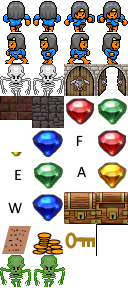
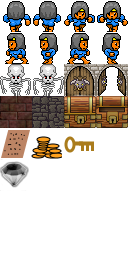
Added in spell animation and adjusted some sprite textures.

diff --git a/Kestala/animation_manager.cpp b/Kestala/animation_manager.cpp
@@ -19,6 +19,19 @@ void AnimationManager::update(sf::Sprite& sprite, sf::Vector2f spriteOrigin) {
 		}		
 	return;
 }
+void AnimationManager::update(sf::Sprite& sprite, sf::Vector2f spriteOrigin, int times) {
+	if (times < 3) {
+		sf::IntRect newRect = sprite.getTextureRect();
+		newRect.left += 32;
+		sprite.setTextureRect(newRect);
+	}
+	else if (times >= 4 && times < 8) {
+		sf::IntRect newRect = sprite.getTextureRect();
+		newRect.left -= 32;
+		sprite.setTextureRect(newRect);
+	}
+	return;
+}
 
 //called if player changes direction - update sprite
 void AnimationManager::changeDirection(sf::Keyboard::Key& direction, sf::Sprite& sprite, sf::Vector2f& spriteOrigin) {
@@ -64,21 +77,6 @@ AnimationManager::AnimationManager() {
 	this->startingFrames["key"] = sf::IntRect(64,128, 32, 32);
 	this->startingFrames["altar"] = sf::IntRect(96,128, 32, 32);
 	this->startingFrames["gem"] = sf::IntRect(0,160, 32, 32);
-	
-
-
-	/*this->startingFrames["firegem"] = sf::IntRect(64, 96, 32, 32);
-	this->startingFrames["earthgem"] = sf::IntRect(96, 96, 32, 32);
-	this->startingFrames["airgem"] = sf::IntRect(0, 128, 32, 32);
-	this->startingFrames["watergem"] = sf::IntRect(32, 128, 32, 32);
-	this->startingFrames["firealtar"] = sf::IntRect(64, 128, 32, 32);
-	this->startingFrames["earthaltar"] = sf::IntRect(0, 160, 32, 32);
-	this->startingFrames["airaltar"] = sf::IntRect(64, 160, 32, 32);
-	this->startingFrames["wateraltar"] = sf::IntRect(0, 192, 32, 32);
-	this->startingFrames["hiddentreasure"] = sf::IntRect(64, 192, 32, 32);
-	this->startingFrames["treasure"] = sf::IntRect(96, 192, 32, 32);
-	this->startingFrames["clue"] = sf::IntRect(0, 224, 32, 32);
-	this->startingFrames["minortreasure"] = sf::IntRect(32, 224, 32, 32);
-	this->startingFrames["key"] = sf::IntRect(64, 224, 32, 32);*/
-
+	this->startingFrames["exit"] = sf::IntRect(32, 160, 32, 32);
+	this->startingFrames["spell"] = sf::IntRect(0, 192, 32, 32);
 }

diff --git a/Kestala/game.cpp b/Kestala/game.cpp
@@ -21,7 +21,7 @@ void Game::loadTiles() {
 	sf::Texture& spriteSheet(texmgr.getRef("spritesheet"));
 	this->tileAtlas["floor"] = Tile(this->tileHeight, spriteSheet, animgr.firstFrame("floor"), false, Entity::entityType::FLOOR, 'F');
 	this->tileAtlas["wall"] = Tile(this->tileHeight, spriteSheet, animgr.firstFrame("wall"), true, Entity::entityType::WALL, 'W');
-	this->tileAtlas["exit"] = Tile(this->tileHeight, spriteSheet, animgr.firstFrame("opendoor"), false, Entity::entityType::EXIT, 'E');
+	this->tileAtlas["exit"] = Tile(this->tileHeight, spriteSheet, animgr.firstFrame("exit"), false, Entity::entityType::EXIT, 'E');
 	this->tileAtlas["openDoor"] = Tile(this->tileHeight, spriteSheet, animgr.firstFrame("opendoor"), false, Entity::entityType::DOOR, 'O');
 	this->tileAtlas["blockedDoor"] = Tile(this->tileHeight, spriteSheet, animgr.firstFrame("blockeddoor"), true, Entity::entityType::DOOR, 'B');
 	this->tileAtlas["start"] = Tile(this->tileHeight, spriteSheet, animgr.firstFrame("opendoor"),  false, Entity::entityType::START, 'S');
@@ -38,7 +38,8 @@ void Game::loadTiles() {
 	this->tileAtlas["clue"] = Tile(this->tileHeight, spriteSheet, animgr.firstFrame("clue"), false, Entity::entityType::PICKUP, 'C');
 	this->tileAtlas["minorTreasure"] = Tile(this->tileHeight, spriteSheet, animgr.firstFrame("minortreasure"), false, Entity::entityType::PICKUP, 'M');
 	this->tileAtlas["key"] = Tile(this->tileHeight, spriteSheet, animgr.firstFrame("key"), false, Entity::entityType::PICKUP, 'K');
-	
+	this->tileAtlas["spell"] = Tile(this->tileHeight, spriteSheet, animgr.firstFrame("spell"), false, Entity::entityType::INTERACTIVE, 'S');
+
 
 }
 

diff --git a/Kestala/game_level_state.cpp b/Kestala/game_level_state.cpp
@@ -18,7 +18,7 @@ void GameLevel::draw(const float dt) {
 	this->game->window.draw(this->game->background);
 	gui.draw(this->game->window);
 	if (start) {
-		map.draw(this->game->window);
+		map.draw(this->game->window, this->player, this->game, dt);
 		player.draw(this->game->window);
 	}
 	return;
@@ -38,6 +38,7 @@ void GameLevel::update(sf::Clock& clock) {
 		if (this->map.nextLevel) {
 			this->map.prevVisited = true;
 			if (prevLevels.size() >= this->map.id) {
+				
 				prevLevels[currentLevel - 1] = this->map;
 			}
 			else {
@@ -85,16 +86,19 @@ void GameLevel::update(sf::Clock& clock) {
 
 		}
 
-		/*Enemy movement*/
-		float dt = clock.getElapsedTime().asSeconds();
-		if (dt > this->game->gameSpeed) {
-			this->map.enemyMove(player, this->game);
+		/*Update enemies*/
+		float dt = clock.getElapsedTime().asSeconds();	
+		if (dt > this->game->gameSpeed) {	
+			this->map.enemyMove(player, this->game);			
 			if (this->player.beenHit) {
 				this->game->audmgr.addBufferToQueue("playerhit");
 			}
 			gameOver = player.isDead();
 			this->player.beenHit = false;
 		}
+			
+				
+
 		this->gui.update("health", "Health: " + this->player.getHealth());
 		this->gui.update("spells", "Spells: " + this->player.getSpells());
 		this->gui.update("gem", "Gems Gathered: " + this->player.getGems());
@@ -149,7 +153,7 @@ void GameLevel::eventHandler() {
 			}
 			if (event.key.code == sf::Keyboard::Return) {
 				if (this->player.spells > 0) {
-					this->map.spell(this->player);
+					this->map.spell(this->player, this->game);
 					this->game->audmgr.addBufferToQueue("explode");
 				}
 			}

diff --git a/Kestala/map.cpp b/Kestala/map.cpp
@@ -36,6 +36,7 @@ void Map::loadMap(const std::string& filename, int id, unsigned int width, unsig
 
 		case 'L':
 			//locked passage
+			cell.cellContents.push_back(entityAtlas.at("floor"));
 			cell.cellContents.push_back(entityAtlas.at("blockedDoor"));
 			break;
 		case 'k':
@@ -493,8 +494,11 @@ void Map::restartMap(Player& player) {
 	nextLevel = false;
 }
 
-void Map::spell(Player& player) {
+void Map::spell(Player& player, Game* game) {
 	player.spells--;
+	spellTicks = 0;
+	spellCast = true;
+	player.setSpell(game->texmgr.getRef("spritesheet"), game->animgr.firstFrame("spell"));
 	std::vector<sf::Vector2f> nearby = nearPlayer(player);
 	for (auto& enemy : enemies) {
 		for (auto& near : nearby) {
@@ -646,7 +650,23 @@ std::string Map::clueText() {
 	return clue;
 }
 
-void Map::draw(sf::RenderWindow& window) {
+void Map::updateSpell(Player& player, Game* game) {
+	if (spellTicks >= 8) {
+			spellCast = false;
+			spellTicks = 0;
+			player.setSpell(game->texmgr.getRef("spritesheet"), game->animgr.firstFrame("spell"));
+		}
+		else if (spellCast) {
+			game->animgr.update(player.spell, player.spellOrigin, spellTicks);
+			spellTicks++;
+		}
+}
+
+
+void Map::draw(sf::RenderWindow& window, Player &player, Game* game, const float dt) {
+	if (dt > 0.25) {
+		updateSpell(player, game);
+	}
 	for (auto &cell : this->mapCells) {
 		for (auto &content : cell.cellContents) {
 			if (content.active) {

diff --git a/Kestala/map.hpp b/Kestala/map.hpp
@@ -30,6 +30,7 @@ public:
 	int gems;
 	int totalGems;
 	int id;
+	int spellTicks;
 
 	
 	bool firstLevel = false;
@@ -38,6 +39,8 @@ public:
 	bool prevVisited = false;
 	bool unlocked = false;
 	bool clueFound = false;
+	bool spellCast = false;
+
 
 
 	sf::Vector2f exitPos;
@@ -61,7 +64,8 @@ public:
 	//entity interactions
 	bool playerCollision(sf::Vector2f position, Player& player);
 	bool enemyCollision(sf::Vector2f position,Enemy& enemy, Player& player);
-	void spell(Player& player);
+	void spell(Player& player, Game* game);
+	void updateSpell(Player& player, Game* game);
 	bool interact(Player& player);
 	std::vector<sf::Vector2f> nearPlayer(Player& player);
 	void unlockTreasure();
@@ -72,8 +76,7 @@ public:
 	void returnMap(Player& player);
 	void restartMap(Player& player);
 
-
-	void draw(sf::RenderWindow& window);
+	void draw(sf::RenderWindow& window, Player &player, Game* game, const float dt);
 
 	Map() {		
 		this->width = 0;
@@ -97,7 +100,7 @@ public:
 	}
 
 	Map(const std::string& filename, int id, unsigned int width, unsigned int height, unsigned int tileSize,
-		std::map<std::string, Tile>& tileAtlas, Game* game, Player& player, bool first) {
+		std::map<std::string, Tile>& tileAtlas, Game* game, Player& player, bool first)  {
 		this->width = width;
 		this->height = height;
 		this->tileSize = tileSize;

diff --git a/Kestala/player.cpp b/Kestala/player.cpp
@@ -26,6 +26,7 @@ sf::Vector2f Player::movePosition(sf::Keyboard::Key& dirKey) {
 
 void Player::setPosition(sf::Vector2f position) {
 	this->sprite.setPosition(position);
+	this->spell.setPosition(this->sprite.getPosition());
 	return;
 }
 
@@ -59,6 +60,17 @@ std::string Player::getKeys() {
 	std::string keyNum = std::to_string(this->key);
 	return keyNum;
 }
+
+void Player::setSpell(sf::Texture& texture, sf::IntRect texturePosition) {
+	this->spell.setOrigin(sf::Vector2f(0.0f, 0.0f));
+	this->spell.setPosition(this->sprite.getPosition());
+	this->spell.setTexture(texture);
+	this->spell.setTextureRect(texturePosition);
+	this->spellOrigin.x = texturePosition.left;
+	this->spellOrigin.y = texturePosition.top;
+}
+
+
 
 bool Player::isDead() {
 	if (this->health <= 0) {

diff --git a/Kestala/entity.hpp b/Kestala/entity.hpp
@@ -11,6 +11,7 @@ class Entity {
 public:
 	sf::IntRect rectSource;
 	sf::Sprite sprite;
+	sf::Sprite spell;
 	bool active = true;
 	int tileSize = 32;
 	char id;
@@ -21,13 +22,16 @@ public:
 
 	virtual void draw(sf::RenderWindow& window) {
 		window.draw(this->sprite);
+		window.draw(this->spell);
 	}
 	virtual void updatePos(sf::Vector2f& position) {
 		this->sprite.setPosition(position);
+		this->spell.setPosition(this->sprite.getPosition());
 		return;
 	}
 	virtual sf::Vector2f getPosition() {
 		return this->sprite.getPosition();
+		this->spell.setPosition(this->sprite.getPosition());
 	}
 	virtual void takeDamage() {};
 

diff --git a/Kestala/player.hpp b/Kestala/player.hpp
@@ -8,6 +8,8 @@
 
 class Player : public Entity {
 public:
+	//spell sprite
+	sf::Vector2f spellOrigin;
 
 	//player movement
 	float moveSpeed = 0.125;
@@ -28,6 +30,7 @@ public:
 	std::string getKeys();
 	void takeDamage();
 	bool isDead();
+	void setSpell(sf::Texture& texture, sf::IntRect texturePosition);
 	std::map <std::string, bool> itemCollected;
 	
 

diff --git a/Kestala/animation_manager.hpp b/Kestala/animation_manager.hpp
@@ -16,6 +16,7 @@ public:
 
 	//update sprites
 	void update(sf::Sprite& sprite, sf::Vector2f origin);
+	void update(sf::Sprite& sprite, sf::Vector2f origin, int times);
 
 	//called if player changes direction - update sprite
 	void changeDirection(sf::Keyboard::Key& direction, sf::Sprite& sprite, sf::Vector2f& origin);

diff --git a/Kestala/game.hpp b/Kestala/game.hpp
@@ -32,7 +32,7 @@ public:
 
 	const static int halfWidth = 16;
 	const static int tileHeight = 32;
-	const float gameSpeed = 0.5;
+	const float gameSpeed = 0.3;
 
 	sf::RenderWindow window;
 	TextureManager texmgr;
